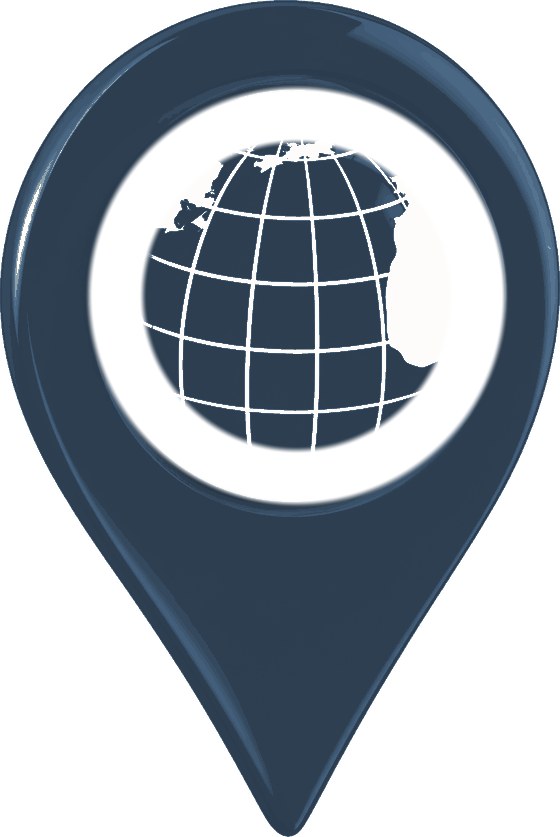
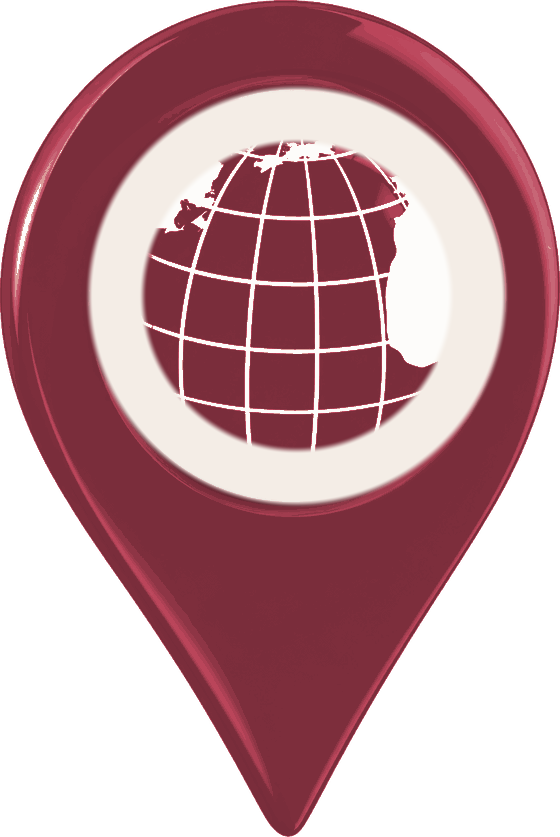
Landing: pin and hand in burgundy
Option 4 of the mockups: body #7B2D3B, bezel ring the palette's warm
cream #F4EDE6 rather than pure white, count and icon staying white, the
hand in the body colour. The palette's #5E202B shadow is not painted in —
the artwork's own luminance carries it, the same way the gloss survives.

diff --git a/src/App.jsx b/src/App.jsx
@@ -2503,9 +2503,9 @@ function Landing({ onApply, onBack, onPreview, onProfile, onLogin, myProfile, st
                 would letterbox it. The globe and the count are positioned
                 against this wrapper, so it has to be the thing that moves. */}
             <span className="artium-globepin" style={{ height: "min(299px, 50.7vw)", aspectRatio: "560 / 837" }}>
-              {/* glo-pin-ink is glo-pin recolored to the step circles' ink
-                  (#2C3E50) by tools/recolor-pin.py — same artwork, same
-                  alpha, shading kept, bezel ring wiped clean. */}
+              {/* glo-pin-ink is glo-pin recolored to burgundy (#7B2D3B) by
+                  tools/recolor-pin.py — same artwork, same alpha, shading
+                  kept, bezel ring painted the palette's cream (#F4EDE6). */}
               <img
                 src="/glo-pin-ink.png"
                 alt=""
@@ -2517,11 +2517,11 @@ function Landing({ onApply, onBack, onPreview, onProfile, onLogin, myProfile, st
                 <PinGlobe />
               </span>
               {/* Drawn, not the emoji: the emoji brings its own colours per
-                  platform, and this one has to sit in the step circles' ink.
+                  platform, and this one has to sit in the pin's burgundy.
                   Lucide's Pointer points up, so it is turned a quarter to
                   point at the pin. */}
               <span className="artium-globepin-hand" aria-hidden="true">
-                <Pointer color="#2C3E50" strokeWidth={2.1} style={{ transform: "rotate(90deg)", display: "block" }} />
+                <Pointer color="#7B2D3B" strokeWidth={2.1} style={{ transform: "rotate(90deg)", display: "block" }} />
               </span>
               <span className="artium-globepin-count">
                 <Users />

diff --git a/tools/recolor-pin.py b/tools/recolor-pin.py
@@ -1,6 +1,8 @@
 # Regenerates public/glo-pin-ink.png from public/glo-pin.png: the brass pin
-# recolored to the "How it works" step-circle ink (#2C3E50), keeping the
-# artwork's shading and alpha, with the bezel ring wiped clean.
+# recolored to burgundy (#7B2D3B), keeping the artwork's shading and alpha,
+# with the bezel ring painted a clean warm cream (#F4EDE6). The artwork's own
+# luminance carries the shadow tones, so the darker #5E202B of the palette
+# falls out of the shading rather than being painted in.
 #
 #   python3 tools/recolor-pin.py
 #
@@ -21,11 +23,12 @@ src = Image.open('public/glo-pin.png').convert('RGBA')
 px = src.load()
 W, H = src.size
 
-# #2C3E50 -> hue 210deg, HLS sat 0.290, lightness 0.243
-TH, TS = 210.0/360.0, 0.290
+# #7B2D3B -> hue 349.2deg, HLS sat 0.4643, lightness 0.3294
+TH, TS = 349.2/360.0, 0.4643
 # Its lightness over the brass body's. 0.507 is measured, not assumed.
-SCALE = 0.243/0.507
+SCALE = 0.3294/0.507
 CX, CY = 296.5, 295.5
+RING = (0xF4, 0xED, 0xE6)   # the palette's warm cream, not pure white
 
 def smooth(a, b, x):
     t = max(0.0, min(1.0, (x - a) / (b - a)))
@@ -53,9 +56,9 @@ for j in range(H):
         d = math.hypot(i - CX, j - CY)
         wr = smooth(150, 158, d) * (1 - smooth(204, 212, d))
         if wr > 0:
-            r = r*(1-wr) + 255*wr
-            g = g*(1-wr) + 255*wr
-            b = b*(1-wr) + 255*wr
+            r = r*(1-wr) + RING[0]*wr
+            g = g*(1-wr) + RING[1]*wr
+            b = b*(1-wr) + RING[2]*wr
         px[i, j] = (round(r), round(g), round(b), a)
 
 src.save('public/glo-pin-ink.png', optimize=True)
